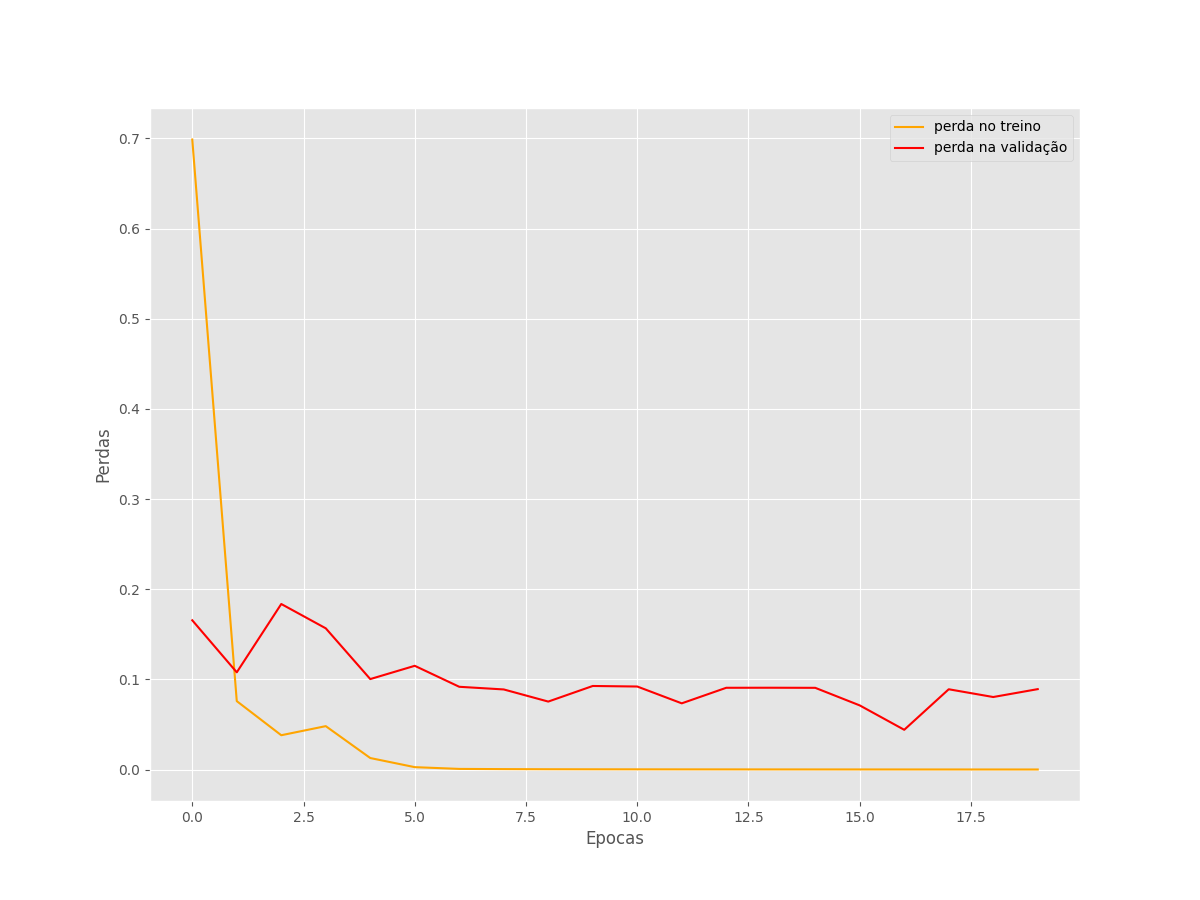
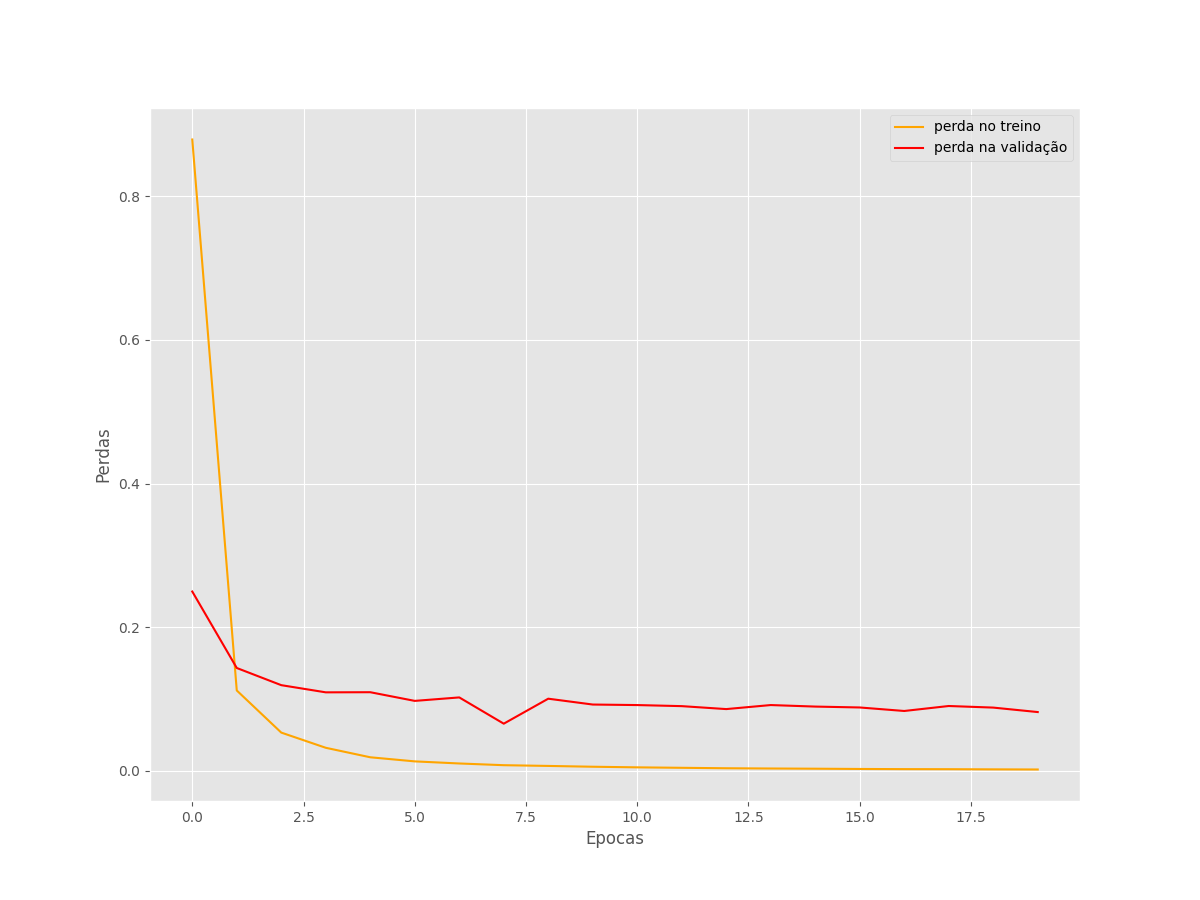
modelo pre-pros

diff --git a/main.py b/main.py
@@ -9,36 +9,40 @@ INPUT_SHAPE = (224, 224, 3)
 TRAINING_DATA_DIR = "input/training/training/"
 VALID_DATRA_DIR = "input/validation/validation/"
 EPOCHS = 20
-BATCH_SIZE = 32
+BATCH_SIZE = 34
 
 def build_model(num_classes):
-    model = tf.keras.Sequential([
-    tf.keras.layers.Conv2D(filters=8, kernel_size=(3, 3), activation='relu', 
-                           input_shape=(224, 224, 3)),
-    tf.keras.layers.MaxPooling2D(pool_size=(2, 2), strides=2),
-    tf.keras.layers.Conv2D(filters=16, kernel_size=(3, 3), activation='relu'),
-    tf.keras.layers.MaxPooling2D(pool_size=(2, 2), strides=2),
-    tf.keras.layers.Conv2D(filters=32, kernel_size=(3, 3), activation='relu'),
-    tf.keras.layers.MaxPooling2D(pool_size=(2, 2), strides=2),
-    tf.keras.layers.Flatten(),
-    tf.keras.layers.Dense(64, activation='relu'),
-    tf.keras.layers.Dense(num_classes, activation='softmax')
+    tf.keras.Sequential([tf.keras.layers.Conv2D(filters=8, kernel_size=(3, 3), activation='relu', 
+                           padding="same"),
+        tf.keras.layers.MaxPooling2D(pool_size=(2, 2), strides=2),
+        tf.keras.layers.Conv2D(filters=16, kernel_size=(3, 3), activation='relu'),
+        tf.keras.layers.MaxPooling2D(pool_size=(2, 2), strides=2),
+        tf.keras.layers.Conv2D(filters=32, kernel_size=(3, 3), activation='relu'),
+        tf.keras.layers.MaxPooling2D(pool_size=(2, 2), strides=2),
+        tf.keras.layers.Flatten(),
+        tf.keras.layers.Dense(64, activation='relu'),
+        tf.keras.layers.Dense(num_classes, activation='softmax')
     ])
     return model
 
 def build_model_tranfer(num_classes : int):
+    data_augmentation = tf.keras.Sequential([
+        tf.keras.layers.RandomFlip("horizontal", input_shape=INPUT_SHAPE),
+    ], "augmentation")
+
     # Pegamos o modelo pré-pronto
     model_v2_layer = tf.keras.applications.MobileNetV2(
         input_shape=INPUT_SHAPE,
         include_top=False,
         weights="imagenet"
     )
-
     model_v2_layer.trainable = False # IMPORTANTE! Não quemos mudar os pesos da rede neural
-    print(model_v2_layer.summary())
+
     model = tf.keras.Sequential([
+        data_augmentation,
         model_v2_layer,
         tf.keras.layers.GlobalAveragePooling2D(),
+        tf.keras.layers.Flatten(),
         tf.keras.layers.Dense(64, activation="relu"),
         tf.keras.layers.Dense(num_classes, activation="softmax")
     ])
@@ -91,11 +95,12 @@ train_generator = datagen.flow_from_directory(TRAINING_DATA_DIR, shuffle=True, t
 valid_generator = datagen.flow_from_directory(VALID_DATRA_DIR, shuffle=True, target_size=IMAGE_SHAPE)
 
 model = build_model_tranfer(num_classes=10)
-model.compile(optimizer=tf.keras.optimizers.Adam(learning_rate=0.01),
+model.compile(optimizer=tf.keras.optimizers.Adam(learning_rate=0.001),
               loss=tf.keras.losses.CategoricalCrossentropy(from_logits=False),
               metrics=['accuracy']
               )
-print(model.summary())
+
+model.summary()
 
 history = model.fit(train_generator,
                     steps_per_epoch=train_generator.samples // BATCH_SIZE,
@@ -103,7 +108,7 @@ history = model.fit(train_generator,
                     validation_data=valid_generator,
                     validation_steps=valid_generator.samples // BATCH_SIZE,
                     verbose=1
-                    )
+                )
 
 train_loss = history.history['loss']
 train_acc = history.history['accuracy']
